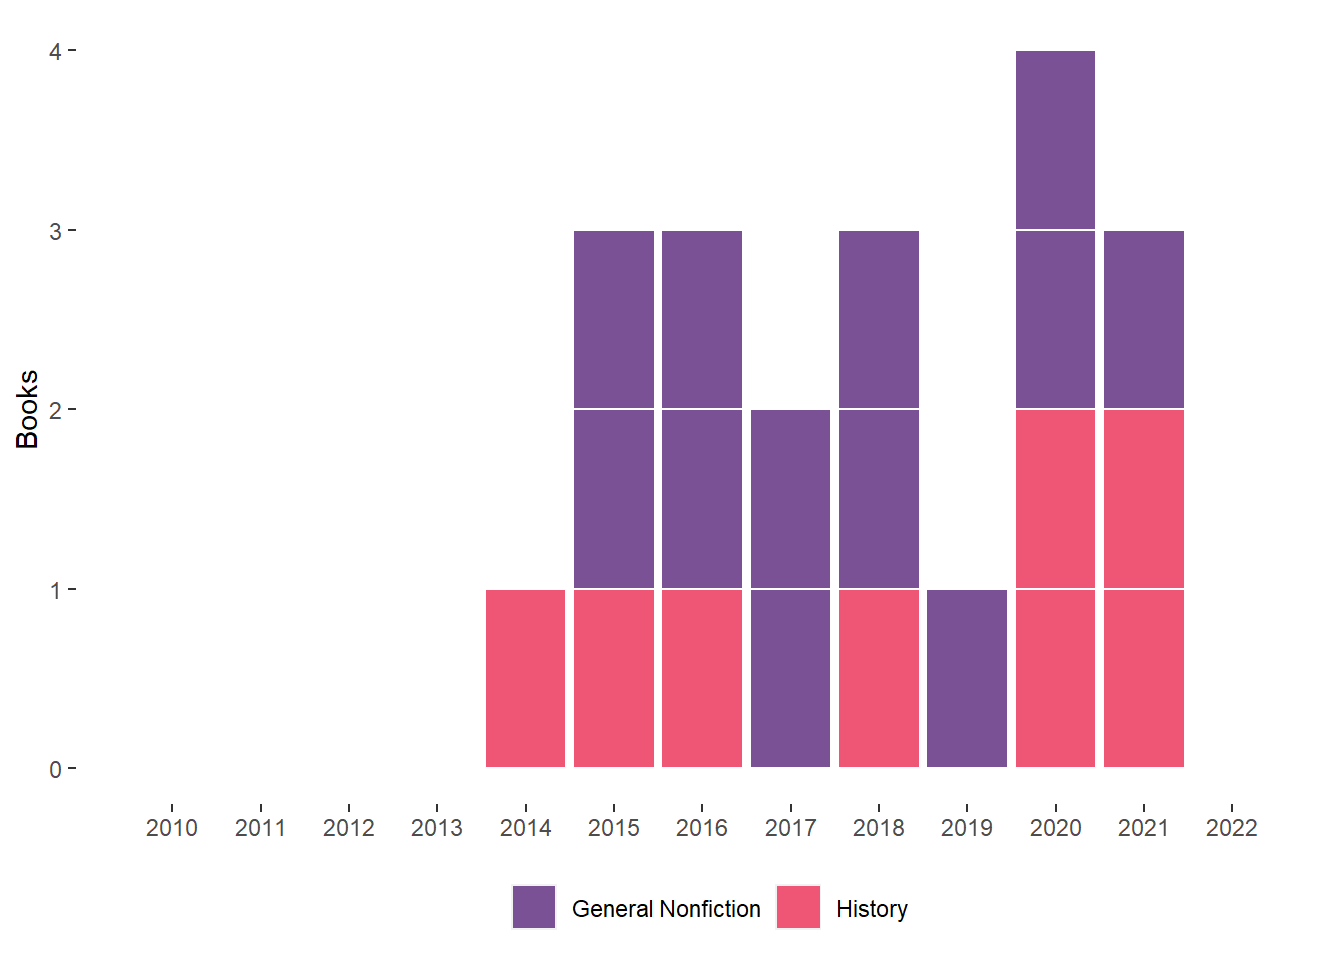
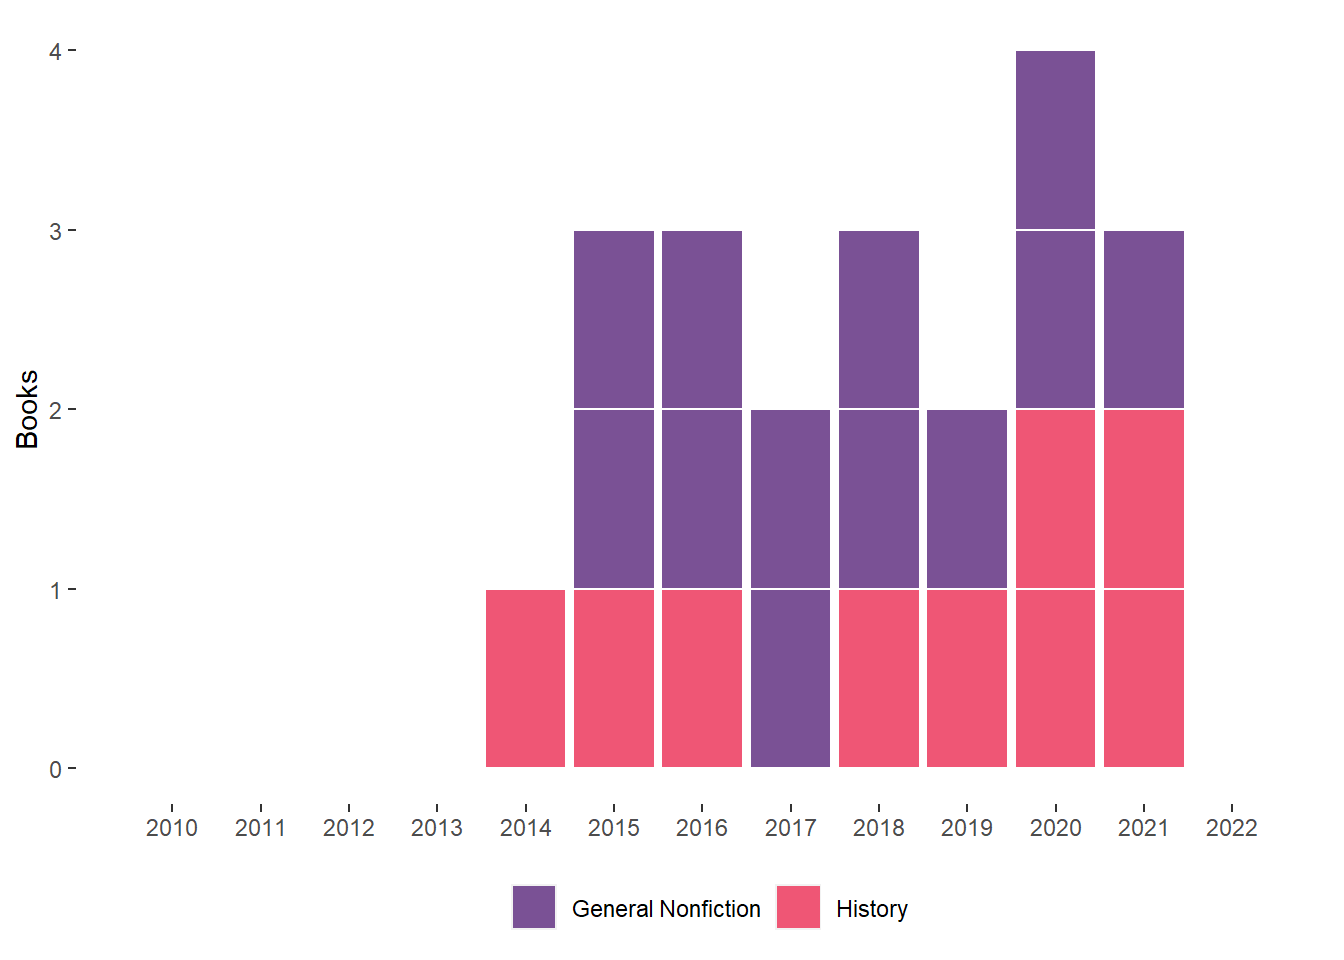
Add border book and clean up files

Changed region(s): [[0.6875, 0.4062, 0.75, 0.8125]]

diff --git a/pullitzer.html b/pullitzer.html
@@ -287,8 +287,8 @@ database is getting).</p>
 <h2>The full list</h2>
 <p>These are the finalists and winners of general nonfiction and
 history, and my progress in reading them.</p>
-<div id="htmlwidget-5125140f7a432fb930d0" class="reactable html-widget" style="width:auto;height:auto;"></div>
-<script type="application/json" data-for="htmlwidget-5125140f7a432fb930d0">{"x":{"tag":{"name":"Reactable","attribs":{"data":{"year":[2022,2022,2022,2022,2022,2022,2021,2021,2021,2021,2021,2021,2020,2020,2020,2020,2020,2020,2019,2019,2019,2019,2019,2019,2018,2018,2018,2018,2018,2018,2017,2017,2017,2017,2017,2017,2016,2016,2016,2016,2016,2016,2016,2015,2015,2015,2015,2015,2015,2014,2014,2014,2014,2014,2014,2013,2013,2013,2013,2013,2013,2012,2012,2012,2012,2012,2011,2011,2011,2011,2011,2011,2010,2010,2010],"short.title":["Covered with Night","Cuba","Until Justice Be Done","Invisible Child","Home, Land, Security","The Family Roe","Franchise","The Three-Cornered War","The Deviant's War","Wilmington's Lie","Minor Feelings","Yellow Bird","Sweet Taste of Liberty ","Race for Profit","The End of the Myth ","The Undying","Solitary","Elderhood","Frederick Douglass ","American Eden ","Civilizing Torture ","Amity and Prosperity ","In a Day's Work","Rising","The Gulf ","Fear City ","Hitler in Los Angeles ","Locking Up Our Own ","Notes on a Foreign Country ","The Evolution of Beauty","Blood in the Water ","Brothers at Arms","New England Bound","Evicted ","In a Different Key ","The Politics of Mourning ","Custer's Trials ","Marching Home","Target Tokyo","The Pentagon's Brain","Black Flags","Between the World and Me ","If the Oceans Were Ink ","Encounters at the Heart of the World ","An Empire on the Edge","Empire of Cotton","The Sixth Extinction","Age of Ambition ","No Good Men Among the Living ","The Internal Enemy","A Dreadful Deceit","Command and Control","Toms River","The Blood Telegram","The Insurgents","Embers of War","Lincoln's Code","The Barbarous Years","Devil in the Grove","Behind the Beautiful Forevers","The Forest Unseen","Malcolm X","Empires, Nations & Families","Railroaded","The Eleventh Day","Minor Feelings","The Fiery Trial","Confederate Reckoning","Eden on the Charles","The Emperor of All Maladies","Empire of the Summer Moon","The Shallows","Lords of Finance","Empire of Liberty","Fordlania"],"author":["Nicole Eustace","Ada Ferrer","Kate Masur","Andrea Elliott","Carla Power","Joshua Prager","Marcia Chatelain","Megan Kate Nelson","Eric Cervini","David Zucchino","Cathy Park Hong","Sierra Crane Murdoch","W. Caleb McDaniel","Keeanga-Yamahtta Taylor","Greg Grandin","Anne Boyer","Albert Woodfox","Louise Aronson","David W. Blight","Victoria Johnson","W. Fitzhugh Brundage","Eliza Griswold","Bernice Yeung","Elizabeth Rush","Jack E. Davis"," Kim Phillips-Fein","Steven J. Ross","James Forman Jr.","Suzy Hansen","Richard O. Prum","Heather Ann Thompson ","Larrie D. Ferreiro","Wendy Warren","Matthew Desmond","John Donvan and Caren Zucker","Micki McElya ","T.J. Stiles","Brian Matthew Jordan","James M. Scott","Annie Jacobsen","Joby Warrick","Ta-Nehisi Coates","Carla Power","Elizabeth A. Fenn","Nick Bunker","Steven Beckert","Elizabeth Kolbert","Evan Osnos","Anand Gopal","Alan Taylor","Jacqueline Jones","Eric Schlosser","Dan Fagin","Gary J. Bass","Fred Kaplan","Fredrik Logeval","John Fabian Witt","Bernard Bailyn","Gilbert King","Katherine Boo","David George Haskell","Manning Marable","Anne F. Hyde","Richard White","Anthony Summers and Robbyn Swan","Cathy Park Hong","Eric Foner","Stephanie McCurry","Michael Rawson","Siddhartha Mukherjee","S.C. Gwynne","Nicholas Carr","Liaquat Ahamed","Gordon S. Wood","Greg Grandin"],"read":[0,0,0,0,0,0,1,1,0,0,0,1,1,1,1,0,1,0,0,0,0,1,0,0,1,0,0,1,0,1,0,0,0,1,1,0,1,0,0,0,1,1,0,1,0,0,0,1,1,0,0,1,0,0,0,0,0,0,0,0,0,0,0,0,0,0,0,0,0,0,0,0,0,0,0],"award":["winner","winner","finalist","winner","finalist","finalist","winner","finalist","finalist","winner","finalist","finalist","winner","finalist","winner","winner","finalist","finalist","winner","finalist","finalist","winner","finalist","finalist","winner","finalist","finalist","winner","finalist","finalist","winner","finalist","finalist","winner","finalist","finalist","winner","finalist","finalist","finalist","winner","finalist","finalist","winner","finalist","finalist","winner","finalist","finalist","winner","finalist","finalist","winner","finalist","finalist","winner","finalist","finalist","winner","finalist","finalist","winner","finalist","finalist","finalist","finalist","winner","finalist","finalist","winner","finalist","finalist","winner","finalist","finalist"],"category":["history","history","history","general-nonfiction","general-nonfiction","general-nonfiction","history","history","history","general-nonfiction","general-nonfiction","general-nonfiction","history","history","general-nonfiction","general-nonfiction","general-nonfiction","general-nonfiction","history","history","history","general-nonfiction","general-nonfiction","general-nonfiction","history","history","history","general-nonfiction","general-nonfiction","general-nonfiction","history","history","history","general-nonfiction","general-nonfiction","general-nonfiction","history","history","history","history","general-nonfiction","general-nonfiction","general-nonfiction","history","history","history","general-nonfiction","general-nonfiction","general-nonfiction","history","history","history","general-nonfiction","general-nonfiction","general-nonfiction","history","history","history","general-nonfiction","general-nonfiction","general-nonfiction","history","history","history","history","general-nonfiction","history","history","history","general-nonfiction","general-nonfiction","general-nonfiction","history","history","history"],"author.of.color":[0,1,0,"NA","NA","NA",1,0,1,"NA","NA",0,0,1,0,"NA",1,"NA",0,0,0,0,"NA","NA",0,0,0,1,"NA",0,0,1,"NA",0,"NA","NA",0,"NA","NA","NA",0,1,"NA",0,"NA","NA","NA",0,1,"NA","NA",0,"NA","NA","NA","NA","NA","NA","NA","NA","NA","NA","NA","NA","NA","NA","NA","NA","NA",1,"NA","NA","NA","NA",0],"author.female":[1,1,1,"NA","NA","NA",1,1,0,"NA","NA",1,0,1,0,"NA",0,"NA",0,1,0,1,"NA","NA",0,1,0,0,"NA",0,1,0,"NA",0,"NA","NA",0,"NA","NA","NA",0,0,"NA",1,"NA","NA","NA",0,0,"NA","NA",0,"NA","NA","NA","NA","NA","NA","NA","NA","NA","NA","NA","NA","NA","NA","NA","NA","NA",0,"NA","NA","NA","NA",0]},"columns":[{"accessor":"year","name":"Year","type":"numeric"},{"accessor":"short.title","name":"Title","type":"character"},{"accessor":"author","name":"Author","type":"character"},{"accessor":"read","name":"Read","type":"numeric"},{"accessor":"award","name":"Award","type":"character"},{"accessor":"category","name":"Category","type":"character"},{"accessor":"author.of.color","name":"author.of.color","type":"numeric"},{"accessor":"author.female","name":"author.female","type":"numeric"}],"defaultPageSize":20,"paginationType":"numbers","showPageInfo":true,"minRows":1,"showSortable":true,"rowStyle":[null,null,null,null,null,null,{"fontWeight":"bold"},{"fontWeight":"bold"},null,null,null,{"fontWeight":"bold"},{"fontWeight":"bold"},{"fontWeight":"bold"},{"fontWeight":"bold"},null,{"fontWeight":"bold"},null,null,null,null,{"fontWeight":"bold"},null,null,{"fontWeight":"bold"},null,null,{"fontWeight":"bold"},null,{"fontWeight":"bold"},null,null,null,{"fontWeight":"bold"},{"fontWeight":"bold"},null,{"fontWeight":"bold"},null,null,null,{"fontWeight":"bold"},{"fontWeight":"bold"},null,{"fontWeight":"bold"},null,null,null,{"fontWeight":"bold"},{"fontWeight":"bold"},null,null,{"fontWeight":"bold"},null,null,null,null,null,null,null,null,null,null,null,null,null,null,null,null,null,null,null,null,null,null,null],"dataKey":"ab48b3b635a09200fc5f4a8757f9228f"},"children":[]},"class":"reactR_markup"},"evals":[],"jsHooks":[]}</script>
+<div id="htmlwidget-9fa39b2a03d721c0d054" class="reactable html-widget" style="width:auto;height:auto;"></div>
+<script type="application/json" data-for="htmlwidget-9fa39b2a03d721c0d054">{"x":{"tag":{"name":"Reactable","attribs":{"data":{"year":[2022,2022,2022,2022,2022,2022,2021,2021,2021,2021,2021,2021,2020,2020,2020,2020,2020,2020,2019,2019,2019,2019,2019,2019,2018,2018,2018,2018,2018,2018,2017,2017,2017,2017,2017,2017,2016,2016,2016,2016,2016,2016,2016,2015,2015,2015,2015,2015,2015,2014,2014,2014,2014,2014,2014,2013,2013,2013,2013,2013,2013,2012,2012,2012,2012,2012,2011,2011,2011,2011,2011,2011,2010,2010,2010],"short.title":["Covered with Night","Cuba","Until Justice Be Done","Invisible Child","Home, Land, Security","The Family Roe","Franchise","The Three-Cornered War","The Deviant's War","Wilmington's Lie","Minor Feelings","Yellow Bird","Sweet Taste of Liberty ","Race for Profit","The End of the Myth ","The Undying","Solitary","Elderhood","Frederick Douglass ","American Eden ","Civilizing Torture ","Amity and Prosperity ","In a Day's Work","Rising","The Gulf ","Fear City ","Hitler in Los Angeles ","Locking Up Our Own ","Notes on a Foreign Country ","The Evolution of Beauty","Blood in the Water ","Brothers at Arms","New England Bound","Evicted<a0>","In a Different Key ","The Politics of Mourning ","Custer's Trials<a0>","Marching Home","Target Tokyo","The Pentagon's Brain","Black Flags","Between the World and Me<a0>","If the Oceans Were Ink ","Encounters at the Heart of the World ","An Empire on the Edge","Empire of Cotton","The Sixth Extinction","Age of Ambition<a0>","No Good Men Among the Living<a0>","The Internal Enemy","A Dreadful Deceit","Command and Control","Toms River","The Blood Telegram","The Insurgents","Embers of War","Lincoln's Code","The Barbarous Years","Devil in the Grove","Behind the Beautiful Forevers","The Forest Unseen","Malcolm X","Empires, Nations & Families","Railroaded","The Eleventh Day","Minor Feelings","The Fiery Trial","Confederate Reckoning","Eden on the Charles","The Emperor of All Maladies","Empire of the Summer Moon","The Shallows","Lords of Finance","Empire of Liberty","Fordlania"],"author":["Nicole Eustace","Ada Ferrer","Kate Masur","Andrea Elliott","Carla Power","Joshua Prager","Marcia Chatelain","Megan Kate Nelson","Eric Cervini","David Zucchino","Cathy Park Hong","Sierra Crane Murdoch","W. Caleb McDaniel","Keeanga-Yamahtta Taylor","Greg Grandin","Anne Boyer","Albert Woodfox","Louise Aronson","David W. Blight","Victoria Johnson","W. Fitzhugh Brundage","Eliza Griswold","Bernice Yeung","Elizabeth Rush","Jack E. Davis","<a0>Kim Phillips-Fein","Steven J. Ross","James Forman Jr.","Suzy Hansen","Richard O. Prum","Heather Ann Thompson<a0>","Larrie D. Ferreiro","Wendy Warren","Matthew Desmond","John Donvan and Caren Zucker","Micki McElya<a0>","T.J. Stiles","Brian Matthew Jordan","James M. Scott","Annie Jacobsen","Joby Warrick","Ta-Nehisi Coates","Carla Power","Elizabeth A. Fenn","Nick Bunker","Steven Beckert","Elizabeth Kolbert","Evan Osnos","Anand Gopal","Alan Taylor","Jacqueline Jones","Eric Schlosser","Dan Fagin","Gary J. Bass","Fred Kaplan","Fredrik Logeval","John Fabian Witt","Bernard Bailyn","Gilbert King","Katherine Boo","David George Haskell","Manning Marable","Anne F. Hyde","Richard White","Anthony Summers and Robbyn Swan","Cathy Park Hong","Eric Foner","Stephanie McCurry","Michael Rawson","Siddhartha Mukherjee","S.C. Gwynne","Nicholas Carr","Liaquat Ahamed","Gordon S. Wood","Greg Grandin"],"read":[0,0,0,0,0,0,1,1,0,0,0,1,1,1,1,0,1,0,0,0,1,1,0,0,1,0,0,1,0,1,0,0,0,1,1,0,1,0,0,0,1,1,0,1,0,0,0,1,1,0,0,1,0,0,0,0,0,0,0,0,0,0,0,0,0,0,0,0,0,0,0,0,0,0,0],"award":["winner","winner","finalist","winner","finalist","finalist","winner","finalist","finalist","winner","finalist","finalist","winner","finalist","winner","winner","finalist","finalist","winner","finalist","finalist","winner","finalist","finalist","winner","finalist","finalist","winner","finalist","finalist","winner","finalist","finalist","winner","finalist","finalist","winner","finalist","finalist","finalist","winner","finalist","finalist","winner","finalist","finalist","winner","finalist","finalist","winner","finalist","finalist","winner","finalist","finalist","winner","finalist","finalist","winner","finalist","finalist","winner","finalist","finalist","finalist","finalist","winner","finalist","finalist","winner","finalist","finalist","winner","finalist","finalist"],"category":["history","history","history","general-nonfiction","general-nonfiction","general-nonfiction","history","history","history","general-nonfiction","general-nonfiction","general-nonfiction","history","history","general-nonfiction","general-nonfiction","general-nonfiction","general-nonfiction","history","history","history","general-nonfiction","general-nonfiction","general-nonfiction","history","history","history","general-nonfiction","general-nonfiction","general-nonfiction","history","history","history","general-nonfiction","general-nonfiction","general-nonfiction","history","history","history","history","general-nonfiction","general-nonfiction","general-nonfiction","history","history","history","general-nonfiction","general-nonfiction","general-nonfiction","history","history","history","general-nonfiction","general-nonfiction","general-nonfiction","history","history","history","general-nonfiction","general-nonfiction","general-nonfiction","history","history","history","history","general-nonfiction","history","history","history","general-nonfiction","general-nonfiction","general-nonfiction","history","history","history"],"author.of.color":[0,1,0,"NA","NA","NA",1,0,1,"NA","NA",0,0,1,0,"NA",1,"NA",0,0,0,0,"NA","NA",0,0,0,1,"NA",0,0,1,"NA",0,"NA","NA",0,"NA","NA","NA",0,1,"NA",0,"NA","NA","NA",0,1,"NA","NA",0,"NA","NA","NA","NA","NA","NA","NA","NA","NA","NA","NA","NA","NA","NA","NA","NA","NA",1,"NA","NA","NA","NA",0],"author.female":[1,1,1,"NA","NA","NA",1,1,0,"NA","NA",1,0,1,0,"NA",0,"NA",0,1,0,1,"NA","NA",0,1,0,0,"NA",0,1,0,"NA",0,"NA","NA",0,"NA","NA","NA",0,0,"NA",1,"NA","NA","NA",0,0,"NA","NA",0,"NA","NA","NA","NA","NA","NA","NA","NA","NA","NA","NA","NA","NA","NA","NA","NA","NA",0,"NA","NA","NA","NA",0]},"columns":[{"accessor":"year","name":"Year","type":"numeric"},{"accessor":"short.title","name":"Title","type":"character"},{"accessor":"author","name":"Author","type":"character"},{"accessor":"read","name":"Read","type":"numeric"},{"accessor":"award","name":"Award","type":"character"},{"accessor":"category","name":"Category","type":"character"},{"accessor":"author.of.color","name":"author.of.color","type":"numeric"},{"accessor":"author.female","name":"author.female","type":"numeric"}],"defaultPageSize":20,"paginationType":"numbers","showPageInfo":true,"minRows":1,"showSortable":true,"rowStyle":[null,null,null,null,null,null,{"fontWeight":"bold"},{"fontWeight":"bold"},null,null,null,{"fontWeight":"bold"},{"fontWeight":"bold"},{"fontWeight":"bold"},{"fontWeight":"bold"},null,{"fontWeight":"bold"},null,null,null,{"fontWeight":"bold"},{"fontWeight":"bold"},null,null,{"fontWeight":"bold"},null,null,{"fontWeight":"bold"},null,{"fontWeight":"bold"},null,null,null,{"fontWeight":"bold"},{"fontWeight":"bold"},null,{"fontWeight":"bold"},null,null,null,{"fontWeight":"bold"},{"fontWeight":"bold"},null,{"fontWeight":"bold"},null,null,null,{"fontWeight":"bold"},{"fontWeight":"bold"},null,null,{"fontWeight":"bold"},null,null,null,null,null,null,null,null,null,null,null,null,null,null,null,null,null,null,null,null,null,null,null],"dataKey":"9aa3f83364a667654e13d9344b33726e"},"children":[]},"class":"reactR_markup"},"evals":[],"jsHooks":[]}</script>
 </div>
 
 

diff --git a/index.html b/index.html
@@ -288,13 +288,13 @@ Pullitzer Prize winning work each year.</p>
 <h3>How I’m doing</h3>
 <p>Three years of steady progress and then a decline. But here’s to
 better trends going forward.</p>
-<div id="htmlwidget-65b1ce450eedce2e746d" style="width:672px;height:480px;" class="plotly html-widget"></div>
-<script type="application/json" data-for="htmlwidget-65b1ce450eedce2e746d">{"x":{"visdat":{"1aa820581ca5":["function () ","plotlyVisDat"]},"cur_data":"1aa820581ca5","attrs":{"1aa820581ca5":{"x":{},"y":{},"mode":"lines+markers","fill":"tozeroy","alpha_stroke":1,"sizes":[10,100],"spans":[1,20],"type":"scatter"}},"layout":{"margin":{"b":40,"l":60,"t":25,"r":10},"shapes":[{"type":"line","x0":2017,"x1":2022,"y0":24,"y1":24,"line":{"width":2,"dash":"dot"}}],"yaxis":{"domain":[0,1],"automargin":true,"showline":false,"showticklabels":true,"tickcolor":"rgb(127,127,127)","ticks":"outside","zeroline":false,"range":[0,32],"dtick":4,"zerolinewidth":2,"title":"Books"},"xaxis":{"domain":[0,1],"automargin":true,"showline":true,"zerolinewidth":6,"title":"year"},"hovermode":"closest","showlegend":false},"source":"A","config":{"modeBarButtonsToAdd":["hoverclosest","hovercompare"],"showSendToCloud":false},"data":[{"fillcolor":"rgba(31,119,180,0.5)","x":[2017,2018,2019,2020,2021,2022],"y":[18,23,23,9,10,9],"mode":"lines+markers","fill":"tozeroy","type":"scatter","marker":{"color":"rgba(31,119,180,1)","line":{"color":"rgba(31,119,180,1)"}},"error_y":{"color":"rgba(31,119,180,1)"},"error_x":{"color":"rgba(31,119,180,1)"},"line":{"color":"rgba(31,119,180,1)"},"xaxis":"x","yaxis":"y","frame":null}],"highlight":{"on":"plotly_click","persistent":false,"dynamic":false,"selectize":false,"opacityDim":0.2,"selected":{"opacity":1},"debounce":0},"shinyEvents":["plotly_hover","plotly_click","plotly_selected","plotly_relayout","plotly_brushed","plotly_brushing","plotly_clickannotation","plotly_doubleclick","plotly_deselect","plotly_afterplot","plotly_sunburstclick"],"base_url":"https://plot.ly"},"evals":[],"jsHooks":[]}</script>
+<div id="htmlwidget-3abc2883938297732186" style="width:672px;height:480px;" class="plotly html-widget"></div>
+<script type="application/json" data-for="htmlwidget-3abc2883938297732186">{"x":{"visdat":{"630075583a8c":["function () ","plotlyVisDat"]},"cur_data":"630075583a8c","attrs":{"630075583a8c":{"x":{},"y":{},"mode":"lines+markers","fill":"tozeroy","alpha_stroke":1,"sizes":[10,100],"spans":[1,20],"type":"scatter"}},"layout":{"margin":{"b":40,"l":60,"t":25,"r":10},"shapes":[{"type":"line","x0":2017,"x1":2022,"y0":24,"y1":24,"line":{"width":2,"dash":"dot"}}],"yaxis":{"domain":[0,1],"automargin":true,"showline":false,"showticklabels":true,"tickcolor":"rgb(127,127,127)","ticks":"outside","zeroline":false,"range":[0,32],"dtick":4,"zerolinewidth":2,"title":"Books"},"xaxis":{"domain":[0,1],"automargin":true,"showline":true,"zerolinewidth":6,"title":"year"},"hovermode":"closest","showlegend":false},"source":"A","config":{"modeBarButtonsToAdd":["hoverclosest","hovercompare"],"showSendToCloud":false},"data":[{"fillcolor":"rgba(31,119,180,0.5)","x":[2017,2018,2019,2020,2021,2022],"y":[18,23,23,9,10,10],"mode":"lines+markers","fill":"tozeroy","type":"scatter","marker":{"color":"rgba(31,119,180,1)","line":{"color":"rgba(31,119,180,1)"}},"error_y":{"color":"rgba(31,119,180,1)"},"error_x":{"color":"rgba(31,119,180,1)"},"line":{"color":"rgba(31,119,180,1)"},"xaxis":"x","yaxis":"y","frame":null}],"highlight":{"on":"plotly_click","persistent":false,"dynamic":false,"selectize":false,"opacityDim":0.2,"selected":{"opacity":1},"debounce":0},"shinyEvents":["plotly_hover","plotly_click","plotly_selected","plotly_relayout","plotly_brushed","plotly_brushing","plotly_clickannotation","plotly_doubleclick","plotly_deselect","plotly_afterplot","plotly_sunburstclick"],"base_url":"https://plot.ly"},"evals":[],"jsHooks":[]}</script>
 </div>
 <div id="what-have-i-read-this-year" class="section level3">
 <h3>What have I read this year?</h3>
-<div id="htmlwidget-1dad8056d7ec420d23ca" class="reactable html-widget" style="width:auto;height:auto;"></div>
-<script type="application/json" data-for="htmlwidget-1dad8056d7ec420d23ca">{"x":{"tag":{"name":"Reactable","attribs":{"data":{"Title":["Command and Control: Nuclear Weapoins, the Damascus Acciden, and the Illusion of Safety","Forget the Alamo: The Rise and Fall of an American Myth","Draft Animals: Living the Pro Cycling Dream (Once in a While)","Race for Profit: How Banks and the Real Estate Industry Undermined Black Homeownership","The Rise of Wolf 8: Witnesing the Triumph of Yellowstone's Underdog","Say Nothing: A True Story of Murder and Memory in Northern Ireland","Yellow Bird: Oil, Murder, and a Woman's Search for Justice in Indian Country","Caste: The Origins of Our Discontents","Volcanoes, Palm Trees And Privilege: Essays on Hawai'i"],"Author":["Eric Schlosser","Bryan Burrough, Chris Tomlinson, Jason Stanford","Phil Gaimon","Keeanga-Yamahtta Taylor","Rick McIntyre"," Patrick Radden Keefe"," Sierra Crane Murdoch","Isabel Wilkerson","Liz Prato"]},"columns":[{"accessor":"Title","name":"Title","type":"character"},{"accessor":"Author","name":"Author","type":"character"}],"defaultPageSize":10,"paginationType":"numbers","showPageInfo":true,"minRows":1,"showSortable":true,"dataKey":"1d804cd1958dcba5cb1d36c9588ab069"},"children":[]},"class":"reactR_markup"},"evals":[],"jsHooks":[]}</script>
+<div id="htmlwidget-adc1abd3bfacad0f24a8" class="reactable html-widget" style="width:auto;height:auto;"></div>
+<script type="application/json" data-for="htmlwidget-adc1abd3bfacad0f24a8">{"x":{"tag":{"name":"Reactable","attribs":{"data":{"Order":[10,9,8,7,6,5,4,3,2,1],"Title":["The Injustice Never Leaves You: Anti-Mexican Violence in Texas","Volcanoes, Palm Trees & Privilege: Essays on Hawai'i","Caste: The Origins of Our Discontents","Yellow Bird: Oil, Murder, and a Woman's Search for Justice in Indian Country","Say Nothing: A True Story of Murder and Memory in Northern Ireland","The Rise of Wolf 8: Witnesing the Triumph of Yellowstone's Underdog","Race for Profit: How Banks and the Real Estate Industry Undermined Black Homeownership","Draft Animals: Living the Pro Cycling Dream (Once in a While)","Forget the Alamo: The Rise and Fall of an American Myth","Command and Control: Nuclear Weapons, the Damascus Accident, and the Illusion of Safety"],"Author":["Monica Mu<f1>oz Martinez","Liz Prato","Isabel Wilkerson"," Sierra Crane Murdoch"," Patrick Radden Keefe","Rick McIntyre","Keeanga-Yamahtta Taylor","Phil Gaimon","Bryan Burrough, Chris Tomlinson, Jason Stanford","Eric Schlosser"]},"columns":[{"accessor":"Order","name":"Order","type":"numeric"},{"accessor":"Title","name":"Title","type":"character"},{"accessor":"Author","name":"Author","type":"character"}],"defaultPageSize":10,"paginationType":"numbers","showPageInfo":true,"minRows":1,"showSortable":true,"dataKey":"1e928d8220e4eb93a52614e7abe8f0c0"},"children":[]},"class":"reactR_markup"},"evals":[],"jsHooks":[]}</script>
 </div>
 
 
